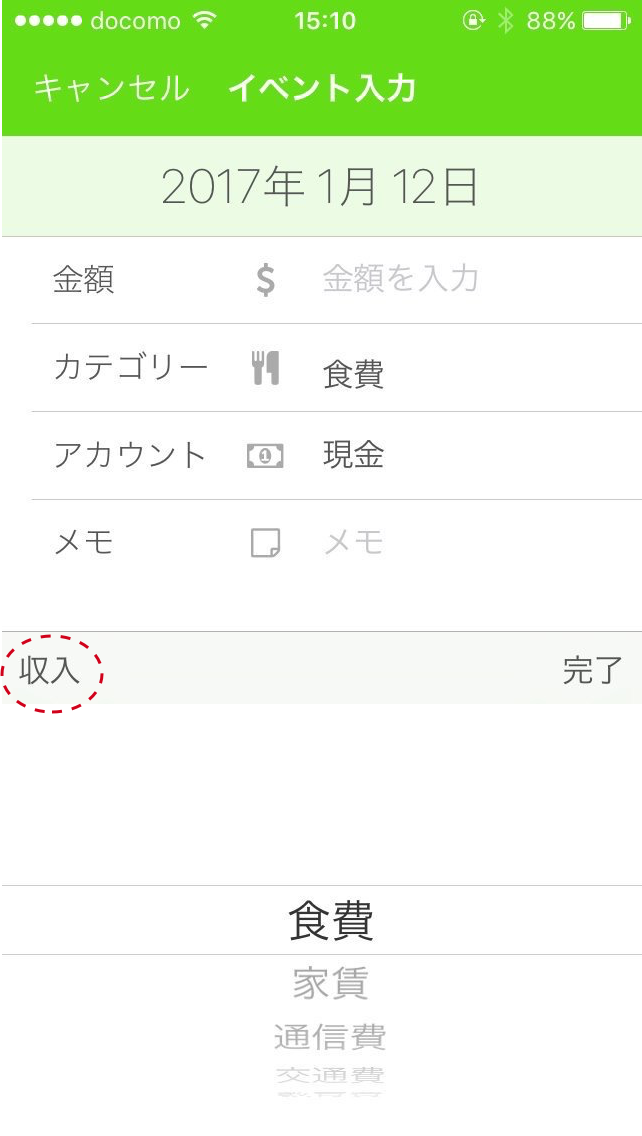
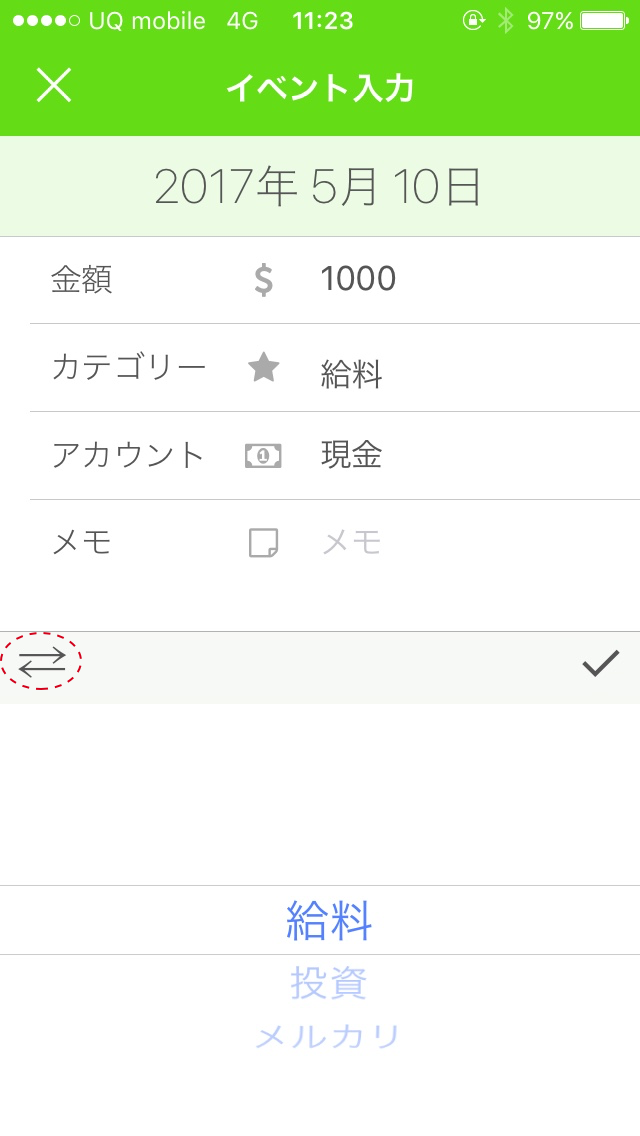
アプリのv1.3.0にあわせて収入の入力方法を変更

diff --git a/moneybook-budget/faq/index.html b/moneybook-budget/faq/index.html
@@ -67,8 +67,8 @@
         </header>
         <h2>使い方・よくあるご質問</h2>
         <div class="container">
-            <a href="add-event.html"><div class="box">イベントの入力方法</div></a>
-            <a href="add-revenue.html"><div class="box">収入の入力方法</div></a>
+            <a href="add-event.html"><div class="box">イベントの入力</div></a>
+            <a href="add-revenue.html"><div class="box">収入の入力</div></a>
             <a href="add-category.html"><div class="box">カテゴリーの追加</div></a>
             <a href="category-sort.html"><div class="box">カテゴリーやアカウントの並び順を変更できますか？</div></a>
             <a href="cutoff-date.html"><div class="box">締日の設定はできますか？</div></a>

diff --git a/moneybook-budget/faq/add-revenue.html b/moneybook-budget/faq/add-revenue.html
@@ -84,7 +84,8 @@
             </section>
             <section>
                 <p>
-                    次にカテゴリーを選択して、左側の「収入」をタップすると収入のカテゴリーが選択できます！
+                    次にカテゴリーを選択して、左側の ⇄ をタップすると収入と支出が切り替わり、カテゴリーが選択できます！<br>
+                    このときに赤字になっているのが支出、青字になっているのが収入です。
                 </p>
                 <amp-img src="../img/faq/add-revenue/entry.png" alt="Welcome" height="568" width="320" layout="responsive"></amp-img>
             </section>
